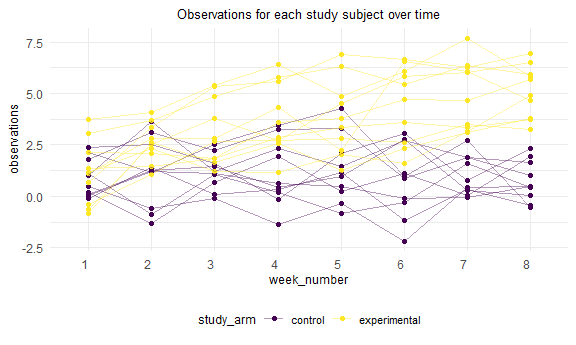
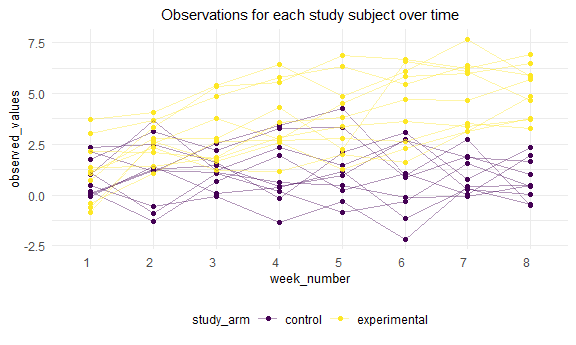
fixed problem 2 plot descript

diff --git a/p8105_hw5_heb2133.md b/p8105_hw5_heb2133.md
@@ -5,14 +5,14 @@ Homework 5
 library(tidyverse)
 ```
 
-    ## -- Attaching packages ----------------------------- tidyverse 1.3.0 --
+    ## -- Attaching packages ------ tidyverse 1.3.0 --
 
     ## v ggplot2 3.3.2     v purrr   0.3.4
     ## v tibble  3.0.3     v dplyr   1.0.2
     ## v tidyr   1.1.2     v stringr 1.4.0
     ## v readr   1.3.1     v forcats 0.5.0
 
-    ## -- Conflicts -------------------------------- tidyverse_conflicts() --
+    ## -- Conflicts --------- tidyverse_conflicts() --
     ## x dplyr::filter() masks stats::filter()
     ## x dplyr::lag()    masks stats::lag()
 
@@ -410,34 +410,36 @@ l_study_df =
     week_1:week_8,
     names_to = "week_number",
     names_prefix = "week_",
-    values_to = "observations"
+    values_to = "observed_values"
   ) %>% 
-  select(subject_id, study_arm, week_number, observations, file_name)
+  select(subject_id, study_arm, week_number, observed_values, file_name)
 ```
 
 Make a spaghetti plot showing observations on each subject over time.
-Comment on differences between groups.
 
 ``` r
 l_study_df %>% 
-  ggplot(aes(x = week_number, y = observations, color = study_arm)) + 
+  ggplot(aes(x = week_number, y = observed_values, color = study_arm)) + 
   geom_point() +
   geom_path(aes(group = subject_id), alpha = 0.4) + 
   labs(title = "Observations for each study subject over time") +
   theme(
-    plot.title = element_text(hjust = 0.5, size = 10),
-    axis.title = element_text(size = 9),
+    plot.title = element_text(hjust = 0.5, size = 11),
+    axis.title = element_text(size = 10),
     axis.text.x = element_text(vjust = 0.5, hjust = 1),
     legend.title = element_text(size = 9),
-    legend.text = element_text(size = 8)
+    legend.text = element_text(size = 9)
     )
 ```
 
 <img src="p8105_hw5_heb2133_files/figure-gfm/unnamed-chunk-9-1.png" width="90%" />
 
 Looking at this plot, we can see that between the control and
-experimental arms - the control arm appears to diverge from the
-experiemental arm in terms of observations.
+experimental arms - subjects in the control arm appeared to have greater
+observed values compared to those in the experimental arm of the study.
+Relatively few subjects in the control arm appear to have negative
+observed values - while several subjects in the experimental arms have
+negative values recorded.
 
 ## Problem 3
 
